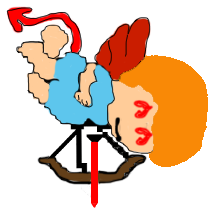
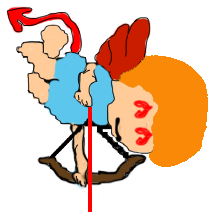
Added a cupid when arrow fired

Changed region(s): [[0.3, 0.4364, 0.4909, 0.9818], [0.3818, 0.3, 0.4364, 0.3545]]

diff --git a/enemies.js b/enemies.js
@@ -8,10 +8,16 @@ let cupid = {
     aimDirection: "down",
     state: "airborne",
     velX: 2,
+    velY: 0,
     body: [createCircle(600, 150 + 25, 10), createCircle(600, 0 + 50 + 25, 25)],
     updateFunc: cupidUpdate
 }
 
+let  parallelmovecount = 0
 function cupidUpdate() {
-    
+    moveUnit(cupid, cupid.velX, 0)
+    parallelmovecount++
+    if (parallelmovecount === 50) {
+        cupid.velX *= -1
+    }
 }
